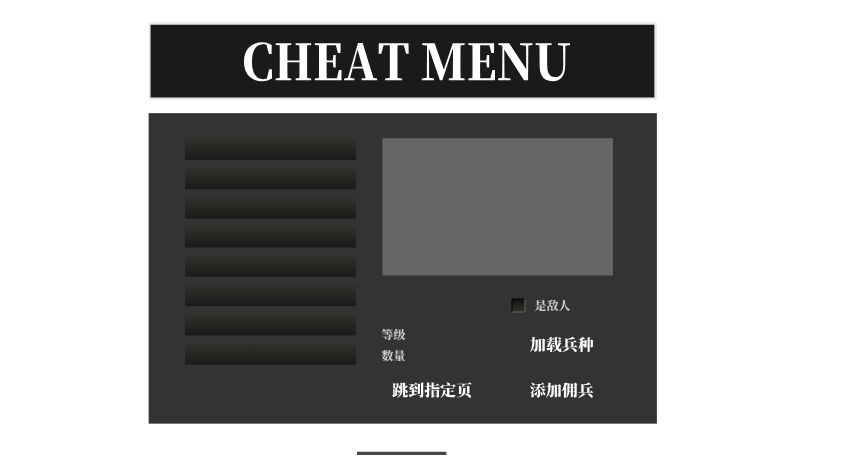
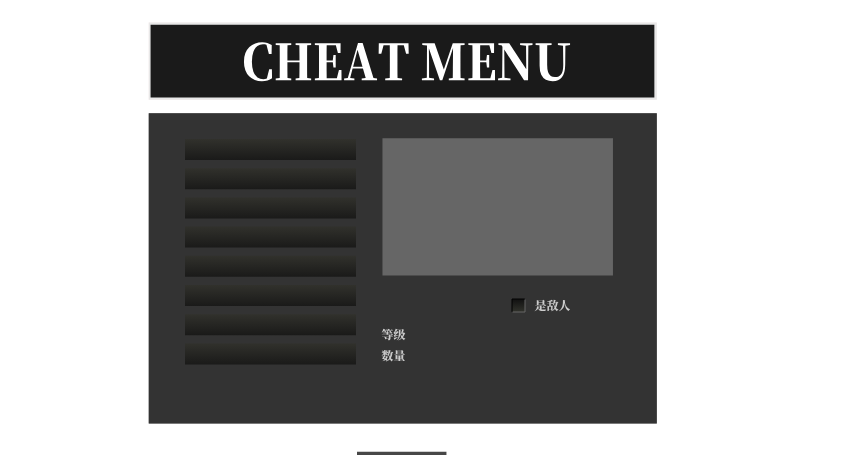
同步修改器按钮文字与边框，需回归兵种分页和页数显示

Changed region(s): [[0.6168, 0.8289, 0.7094, 0.8904], [0.4626, 0.8289, 0.5552, 0.8904], [0.6168, 0.7368, 0.7094, 0.7675]]

diff --git a/launcher/src/Guardian/ModifierNativeSurface.cs b/launcher/src/Guardian/ModifierNativeSurface.cs
@@ -88,6 +88,7 @@ namespace CF7Launcher.Guardian
         private readonly Font _statusFont;
         private readonly StringFormat _clip;
         private readonly StringFormat _ellipsis;
+        private readonly StringFormat _center;
         private string _tooltipItem;
         private JObject _portraitManifest;
         private bool _portraitManifestLoaded;
@@ -167,6 +168,12 @@ namespace CF7Launcher.Guardian
             _statusFont = CreateFont(8f, FontStyle.Regular);
             _clip = new StringFormat(StringFormatFlags.NoWrap) { Trimming = StringTrimming.EllipsisCharacter };
             _ellipsis = new StringFormat(StringFormatFlags.NoWrap) { Trimming = StringTrimming.EllipsisCharacter };
+            _center = new StringFormat(StringFormatFlags.NoWrap)
+            {
+                Alignment = StringAlignment.Center,
+                LineAlignment = StringAlignment.Center,
+                Trimming = StringTrimming.EllipsisCharacter
+            };
             _armTimer = new Timer { Interval = 3000 };
             _armTimer.Tick += OnArmTimer;
             _animationTimer = new Timer { Interval = 33 };
@@ -1430,6 +1437,12 @@ namespace CF7Launcher.Guardian
                 graphics.DrawRectangle(pen, rect.X + 1, rect.Y + 1, rect.Width - 2, rect.Height - 2);
         }
 
+        private void DrawButtonWithText(Graphics graphics, Rectangle rect, string action, string text)
+        {
+            DrawButton(graphics, rect, action);
+            DrawText(graphics, text, ArtRect(action, rect, true), _smallFont, Color.White, _center);
+        }
+
         private void DrawItemGrid(Graphics graphics)
         {
             Rectangle grid = ModifierNativeLayout.ItemGrid;
@@ -1498,9 +1511,9 @@ namespace CF7Launcher.Guardian
             DrawButton(graphics, ModifierNativeLayout.UnitLevelPlus, "level_plus");
             DrawButton(graphics, ModifierNativeLayout.UnitCountMinus, "count_minus");
             DrawButton(graphics, ModifierNativeLayout.UnitCountPlus, "count_plus");
-            DrawButton(graphics, ModifierNativeLayout.UnitSpawn, "unit_spawn");
-            DrawButton(graphics, ModifierNativeLayout.UnitMerc, "unit_merc");
-            DrawButton(graphics, ModifierNativeLayout.UnitJump, "unit_jump");
+            DrawButtonWithText(graphics, ModifierNativeLayout.UnitSpawn, "unit_spawn", "加载兵种");
+            DrawButtonWithText(graphics, ModifierNativeLayout.UnitMerc, "unit_merc", "添加佣兵");
+            DrawButtonWithText(graphics, ModifierNativeLayout.UnitJump, "unit_jump", "跳到指定页");
             if (_unitFrame != null && !string.Equals(_unitFrameSprite, null, StringComparison.Ordinal))
             {
                 RectangleF frame = _art.UnitFrameMask;
@@ -2102,6 +2115,7 @@ namespace CF7Launcher.Guardian
                 _statusFont.Dispose();
                 _clip.Dispose();
                 _ellipsis.Dispose();
+                _center.Dispose();
                 ClearCalls();
             }
             base.Dispose(disposing);

diff --git a/launcher/src/Guardian/ModifierNativeLayout.cs b/launcher/src/Guardian/ModifierNativeLayout.cs
@@ -49,10 +49,10 @@ namespace CF7Launcher.Guardian
         internal static readonly Rectangle UnitPrevious = new Rectangle(212, 377, 24, 25);
         internal static readonly Rectangle UnitNext = new Rectangle(243, 377, 24, 25);
         internal static readonly Rectangle UnitLast = new Rectangle(267, 377, 24, 25);
-        internal static readonly Rectangle UnitPage = new Rectangle(343, 379, 34, 22);
-        internal static readonly Rectangle UnitPageLabel = new Rectangle(293, 381, 46, 20);
-        internal static readonly Rectangle UnitPageTotal = new Rectangle(381, 381, 26, 20);
-        internal static readonly Rectangle UnitJump = new Rectangle(416, 375, 108, 30);
+        internal static readonly Rectangle UnitPage = new Rectangle(351, 379, 34, 22);
+        internal static readonly Rectangle UnitPageLabel = new Rectangle(293, 381, 54, 20);
+        internal static readonly Rectangle UnitPageTotal = new Rectangle(389, 381, 26, 20);
+        internal static readonly Rectangle UnitJump = new Rectangle(424, 375, 108, 30);
         internal static readonly Rectangle UnitGrid = new Rectangle(183, 139, 171, 225);
         internal static readonly Rectangle UnitFrame = new Rectangle(382, 138, 231, 138);
         internal static readonly Rectangle UnitLevel = new Rectangle(444, 326, 35, 22);
@@ -76,7 +76,7 @@ namespace CF7Launcher.Guardian
 
         internal static int UnitActionOffsetX(string action)
         {
-            if (action == "unit_jump") return 40;
+            if (action == "unit_jump") return 48;
             if (action == "unit_spawn" || action == "unit_merc") return 40;
             if (action == "level_minus" || action == "level_plus" || action == "count_minus" || action == "count_plus") return 16;
             if (action == "unit_first" || action == "unit_prev" || action == "unit_next") return -8;

diff --git a/tools/export-modifier-art.py b/tools/export-modifier-art.py
@@ -11,6 +11,7 @@ import sys
 import tempfile
 import xml.etree.ElementTree as ET
 from pathlib import Path
+from PIL import Image
 
 sys.dont_write_bytecode = True
 ROOT = Path(__file__).resolve().parents[1]
@@ -48,6 +49,8 @@ GENERIC_BUTTONS = {
     ("units", 340.95, 345.65): "unit_merc",
     ("units", 211.25, 345.65): "unit_jump",
 }
+UNIT_LEGACY_TEXT_RECTS = ((376, 375, 108, 30), (506, 329, 108, 31), (506, 375, 108, 31))
+
 SYMBOL_BUTTONS = {
     ("items", "button/Symbol 1756"): "item_first",
     ("items", "button/Symbol 1751"): "item_prev",
@@ -117,6 +120,13 @@ class ModifierRenderer(engine.Renderer):
                                 copied.remove(copied.find("./x:matrix", NS))
                         break
         return super().element_to_svg(element, where, ct)
+
+
+def erase_legacy_button_text(path):
+    with Image.open(path) as image:
+        for left, top, width, height in UNIT_LEGACY_TEXT_RECTS:
+            image.paste((0, 0, 0, 204), (left, top, left + width, top + height))
+        image.save(path)
 
 
 def digest(path):
@@ -267,6 +277,8 @@ def generate(directory):
         svg_path.write_text(svg, encoding="utf-8")
         background = "native-" + page + ".png"
         svg_renderer.render(str(svg_path), STAGE[0], str(directory / background))
+        if page == "units":
+            erase_legacy_button_text(directory / background)
         svg_path.unlink()
         for action, rec in buttons.items():
             for state, relative in list(rec["states"].items()):

diff --git a/docs/修改器-Web迁移-施工与验证-2026-11-01.md b/docs/修改器-Web迁移-施工与验证-2026-11-01.md
@@ -12,7 +12,7 @@
 
 ## 0.2 原生对齐修订（2026-11-21）
 
-物品格不再绘制固定黄色数量 `1`，实际数量仍只在生产输入框中编辑。兵种分页最左箭头不越过列表左边界，「共 N 项」使用完整文本且不以省略号截断；跳页、加载兵种、添加佣兵与等级/数量控件分别右移，绘制和命中同步调整，总页数与「跳到指定页」至少保留 8px 间隔，同排按钮不重叠。「是敌人」复选框回到原底图方块中心 `(516, 304)`。定向测试覆盖物品格无黄色数字、分页不遮挡、按钮间距和复选框中心坐标。
+物品格不再绘制固定黄色数量 `1`，实际数量仍只在生产输入框中编辑。兵种分页最左箭头不越过列表左边界，「共 N 项」使用完整文本且不以省略号截断；跳页、加载兵种、添加佣兵与等级/数量控件分别右移，绘制和命中同步调整，总页数与「跳到指定页」至少保留 8px 间隔，同排按钮不重叠。底图生成时移除原按钮文字，原生代码在移动后的按钮内重新绘制白字，确保文字、边框与命中共用矩形。「是敌人」复选框回到原底图方块中心 `(516, 304)`。定向测试覆盖物品格无黄色数字、分页不遮挡、按钮间距和复选框中心坐标。
 
 ## 1. 入口与权威
 
